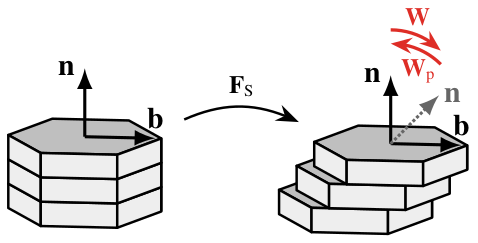
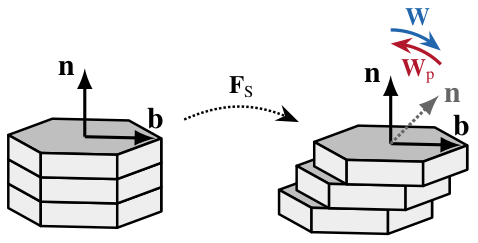
updated docs figures

Changed region(s): [[0.8201, 0.0288, 0.9372, 0.3457], [0.3808, 0.4321, 0.5858, 0.4897], [0.4979, 0.3457, 0.5272, 0.4033]]

diff --git a/docs/plastic-spin.md b/docs/plastic-spin.md
@@ -1,19 +1,19 @@
 # Plastic spin
 
 
-![](https://raw.githubusercontent.com/nicholasmr/specfab/main/images/tranisotropic/plastic-spin.png){: style="width:120px"}
+![](https://raw.githubusercontent.com/nicholasmr/specfab/main/images/tranisotropic/plastic-spin.png){: style="width:380px"}
 
 The orientation of slip systems generally tends towards aligning with the bulk shear-plane axes. 
 Thus, if the two are perfectly aligned, the slip-system orientation should be unaffected by continued shearing (i.e. be in steady state).
 Clearly, slip-system orientations can therefore not simply co-rotate with the bulk spin ($\bf W$) like passive material line elements (plane elements), i.e. 
 ${\bf \dot{n}} \neq {\bf W} \cdot {\bf n}$.
-Rather, slip systems must experience some plastic spin correction, ${\bf W}_\mathrm{p}$, such that, in the case of perfect alignment, the plastic spin exactly counteracts the bulk spin to achieve steady state:
+Rather, slip systems must experience some plastic spin correction, ${\bf W}_\mathrm{p}$, such that&mdash;in the case of perfect alignment&mdash;the plastic spin exactly counteracts the bulk spin to achieve steady state:
 
 $$
 {\bf \dot{n}} = ({\bf W} + {\bf W}_{\mathrm{p}}) \cdot {\bf n} = {\bf 0} .
 $$
 
-Here, a breif introduction is given to the functional form of ${\bf W}_\mathrm{p}$ based on [Aravas and Aifantis (1991)](https://doi.org/10.1016/0749-6419(91)90028-W) and [Aravas (1994)](https://www.doi.org/10.1088/0965-0393/2/3A/005) (among others). 
+Here, the functional form of ${\bf W}_\mathrm{p}$ is breifly discussed following [Aravas and Aifantis (1991)](https://doi.org/10.1016/0749-6419(91)90028-W) and [Aravas (1994)](https://www.doi.org/10.1088/0965-0393/2/3A/005) (among others). 
 
 For a constant rate of shear deformation ($1/T$) aligned with the ${\bf b}$&mdash;${\bf n}$ system, 
 
@@ -55,7 +55,7 @@ $$
 {\bf \dot{b}} = ({\bf W} + {\bf W}_{\mathrm{p}}({\bf D},{\bf b})) \cdot {\bf b}.
 $$
 
-Indeed, this result agrees with representation theorems for isotropic functions (Wang, 1969), stating that an antisymmetric tensor-value function of a symmetric tensor (${\bf D}$) and a vector (${\hat {\bf r}}$) is to lowest order
+Indeed, this result agrees with representation theorems for isotropic functions (Wang, 1969), stating that an anti-symmetric tensor-value function of a symmetric tensor (${\bf D}$) and a vector (${\hat {\bf r}}$) is to lowest order given by
 
 $$
 {\bf W}_{\mathrm{p}}({\bf D},{\hat {\bf r}}) = 
@@ -65,4 +65,5 @@ $$
 
 To be consistent with the above, $\iota = +1$ for ${\hat {\bf r}}={\bf n}$ and $\iota = -1$ for ${\hat {\bf r}}={\bf b}$.
 
+${\bf W}_\mathrm{p}({\bf D},{\bf n})$ and ${\bf W}_\mathrm{p}({\bf D},{\bf b})$ are then generally taken to relevant for other modes of deformation, too.
 
